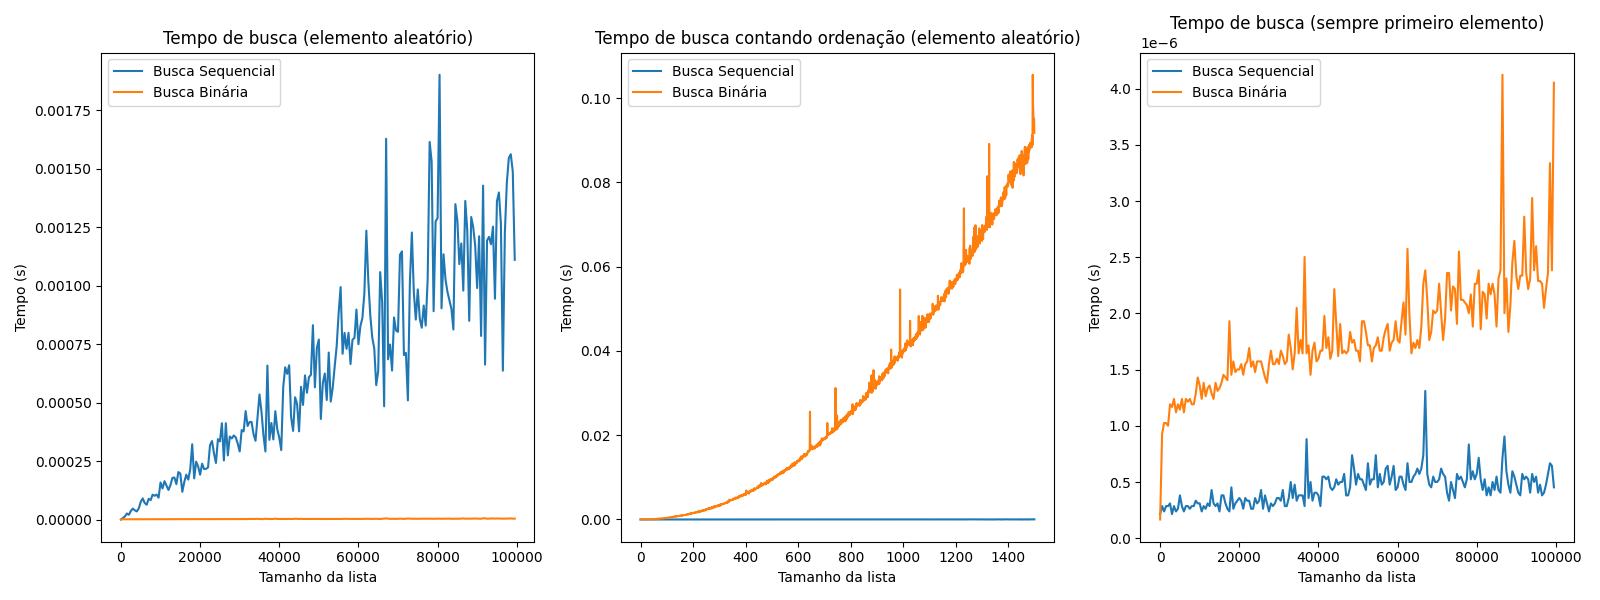
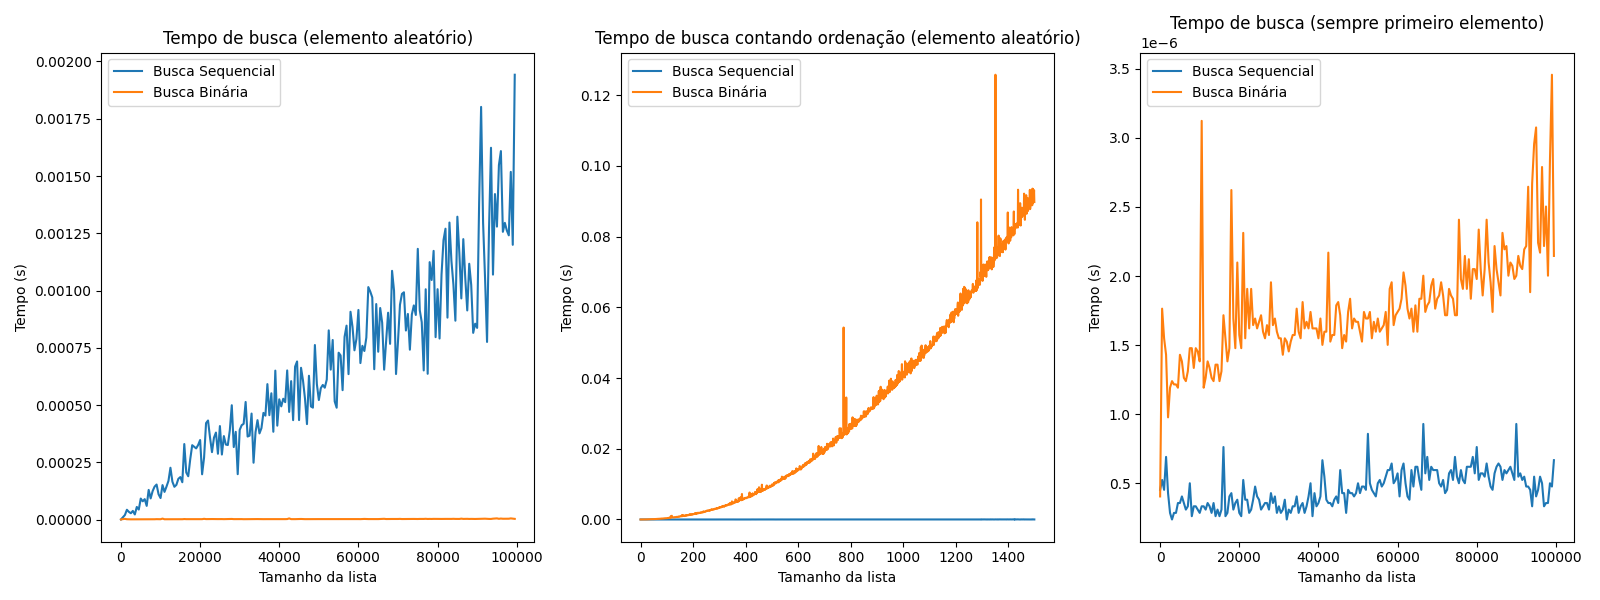
Adds 10-14

diff --git a/10-14/binaria.py b/10-14/binaria.py
@@ -1,0 +1,26 @@
+import random
+
+def busca_binaria(l, x):
+    """
+        Procura x em l e, se encontrar, retorna sua posição. Só
+        funciona se l estiver ordenada
+    """
+    pos_ini = 0
+    pos_fim = len(l) - 1
+
+    while pos_ini <= pos_fim:
+        pos_meio = (pos_ini + pos_fim) // 2
+        if l[pos_meio] == x:
+            return pos_meio
+        elif l[pos_meio] > x:
+            pos_fim = pos_meio - 1
+        else:
+            pos_ini = pos_meio + 1
+    return -1
+
+
+l = random.sample(range(1, 30), 20)
+x = 5
+l.sort()
+print(l)
+print(busca_binaria(l, x))

diff --git a/10-14/ex2.py b/10-14/ex2.py
@@ -1,0 +1,24 @@
+
+def busca_binaria_mod(l, x):
+    """
+        Procura x em l e, se encontrar, retorna sua posição. Só
+        funciona se l estiver ordenada
+    """
+    pos_ini = 0
+    pos_fim = len(l) - 1
+
+    while pos_ini <= pos_fim:
+        pos_meio = (pos_ini + pos_fim) // 2
+        if l[pos_meio] == x:
+            return pos_meio
+        elif l[pos_meio] > x:
+            pos_fim = pos_meio - 1
+        else:
+            pos_ini = pos_meio + 1
+    return pos_ini
+
+
+l = list(range(2, 37, 2))
+x = 13
+
+print(busca_binaria_mod(l, x))

diff --git a/10-14/linear.py b/10-14/linear.py
@@ -1,0 +1,14 @@
+def busca_linear(l, x):
+    """
+        Procura x em l e, se encontrar, retorna sua posição
+    """
+    for i in range(len(l)):
+        if l[i] == x:
+            return i
+
+    return -1
+
+
+l = [2, 13, 6, 313, 7, 1]
+x = 99
+print(busca_linear(l, x))
